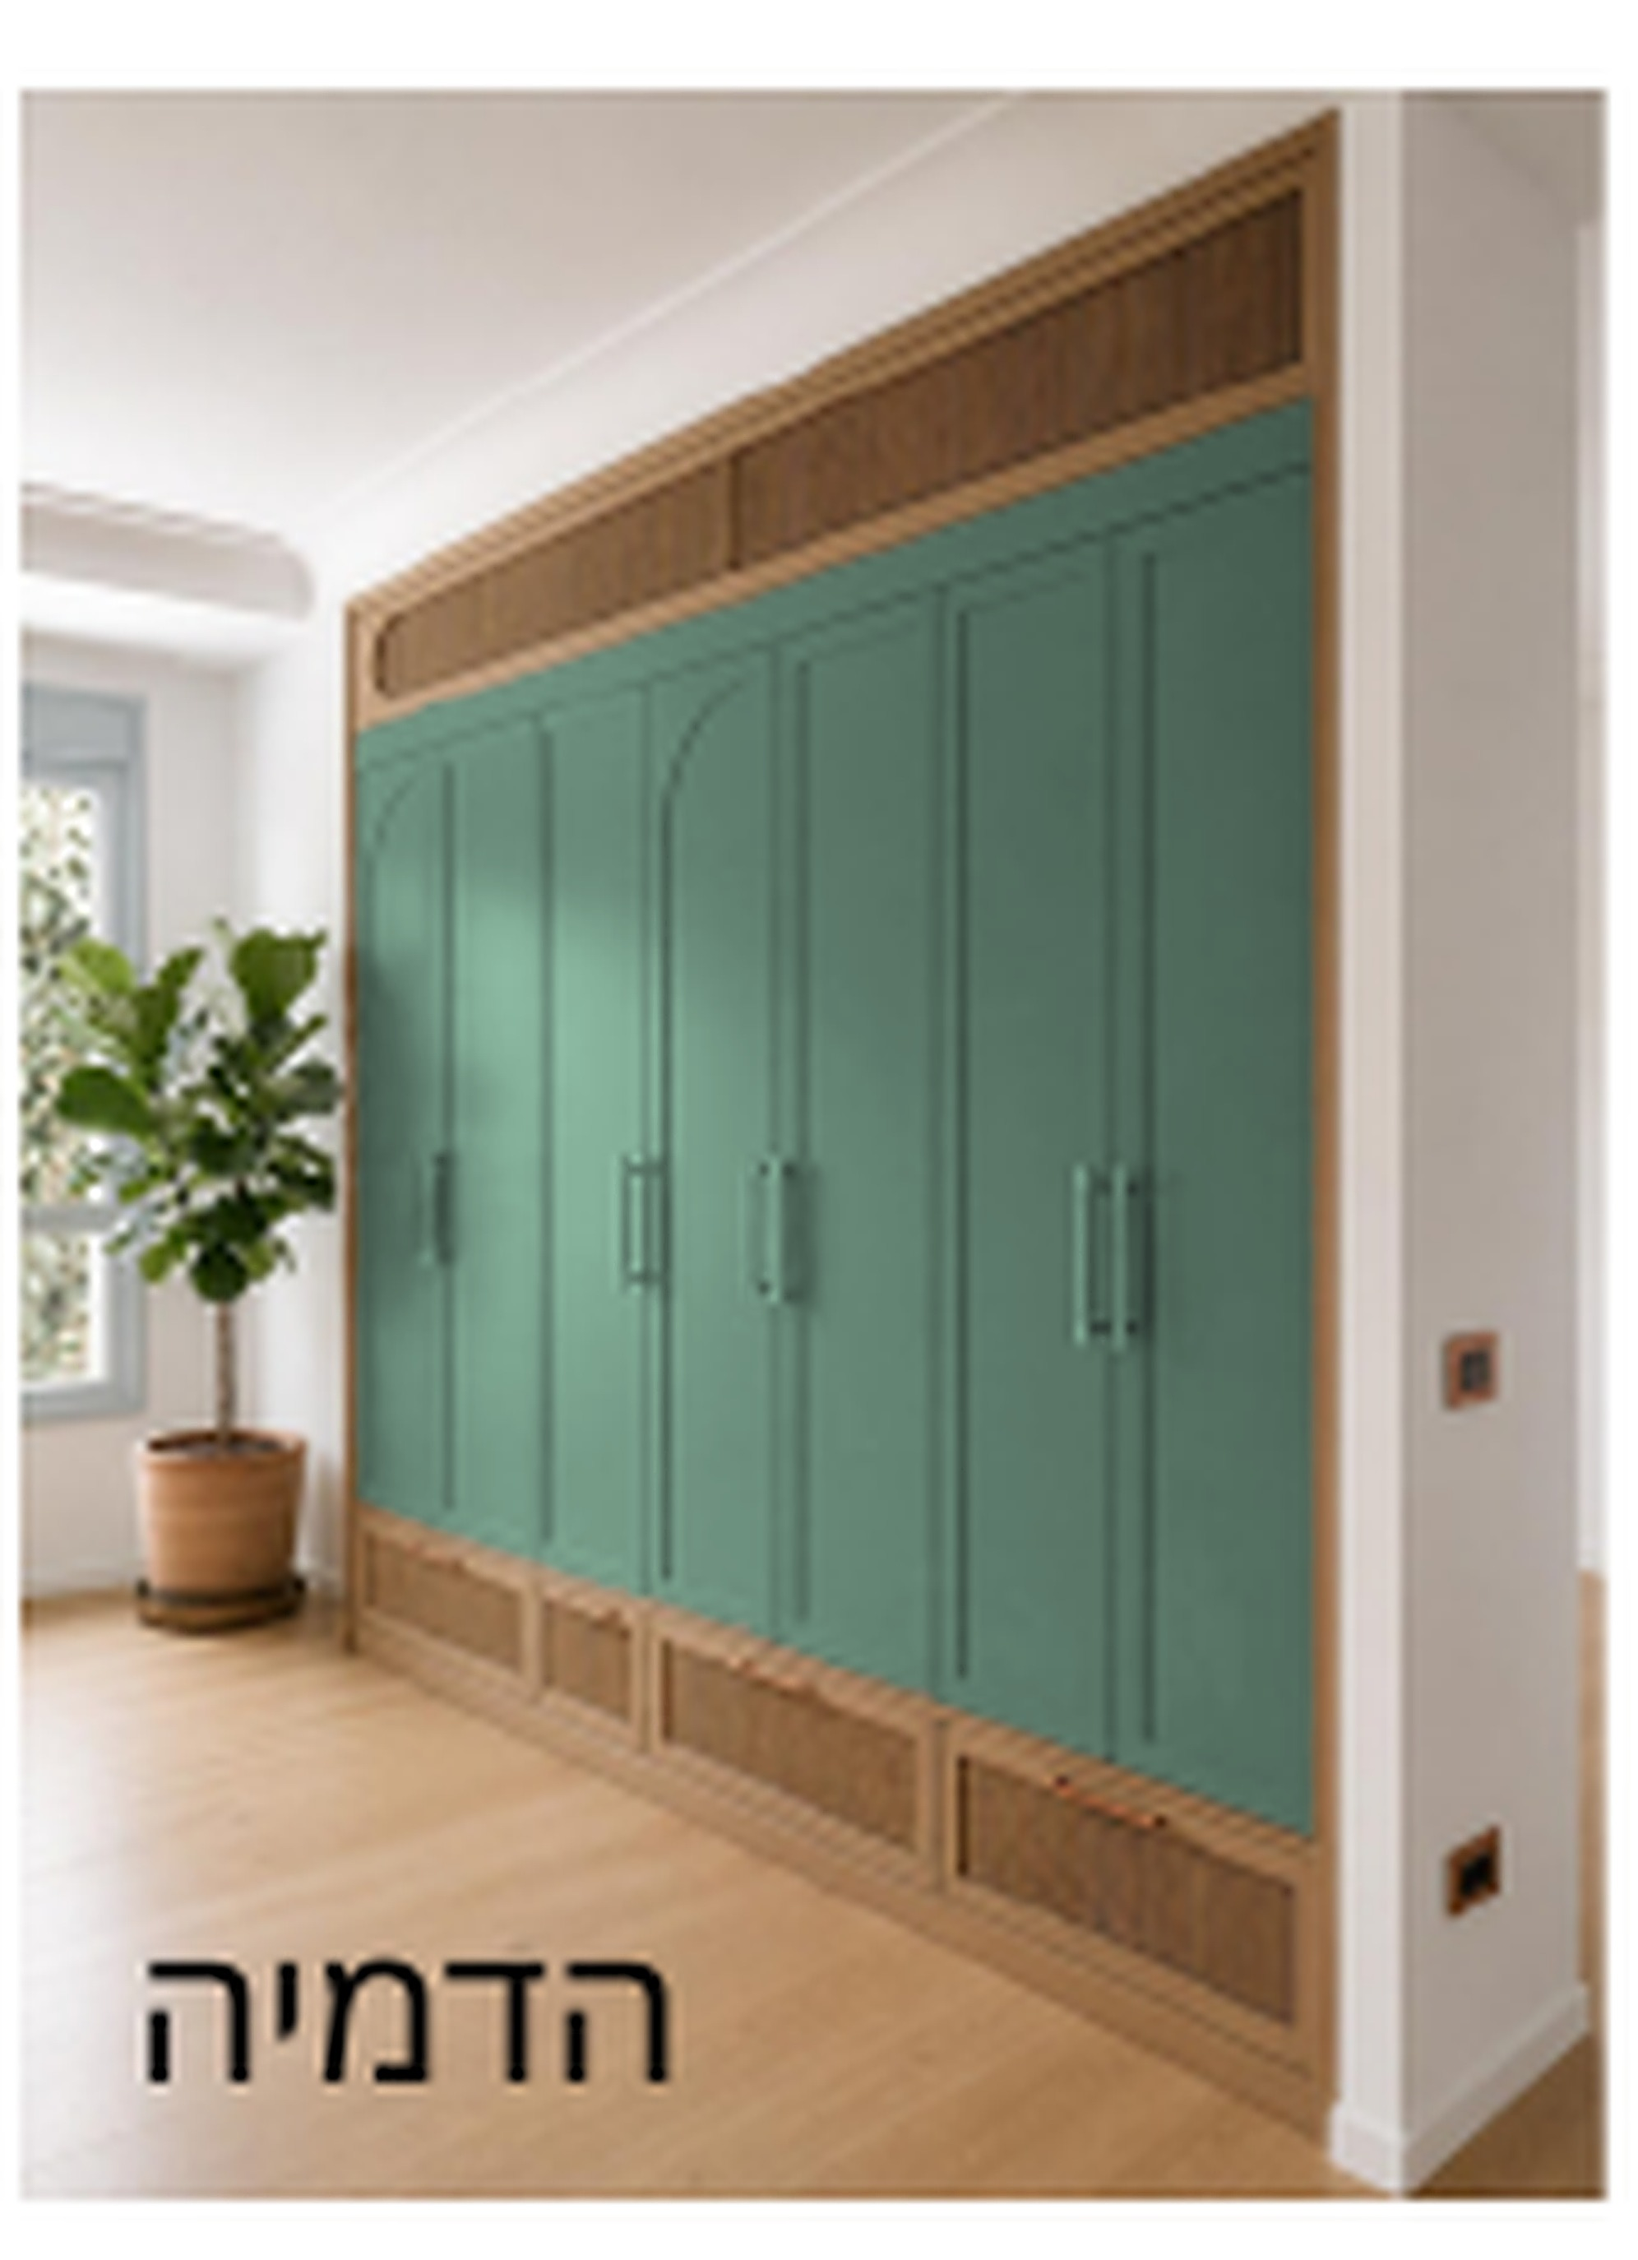
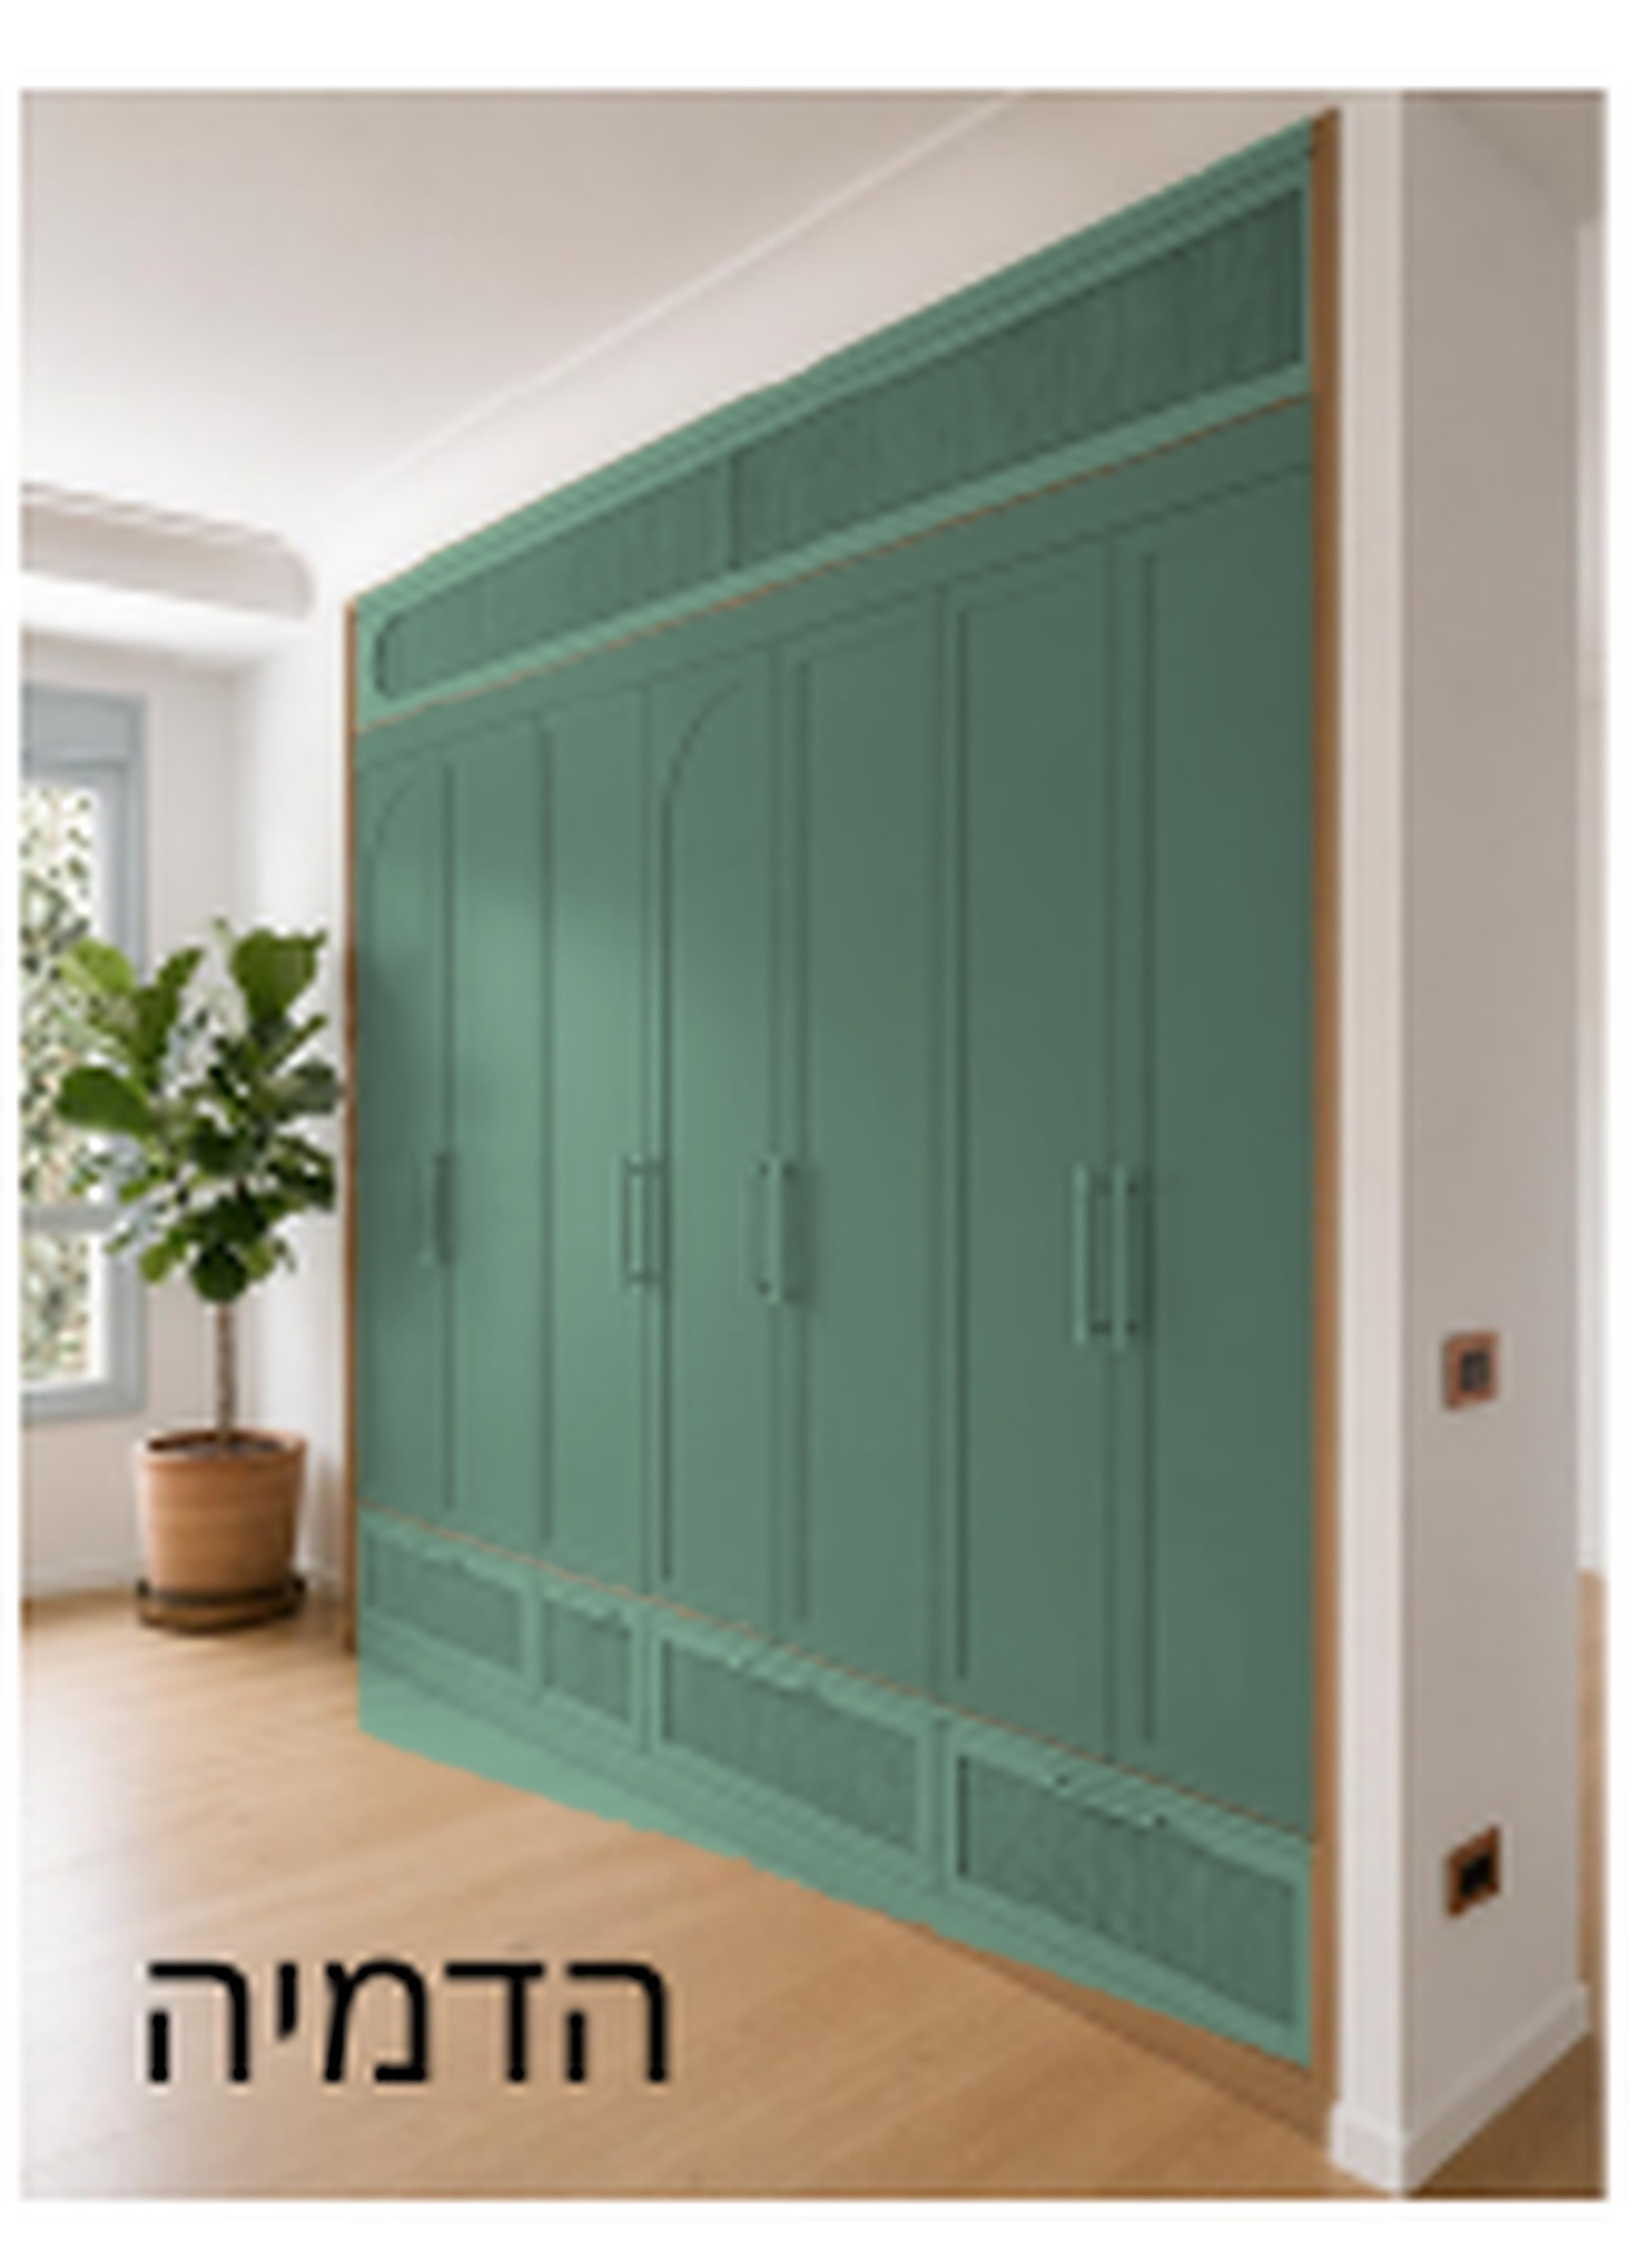
entrance-cabinet: professional redesign (scroll reveal, per-card color tint, glass tag badge, photo hover zoom); recolor fluted top/bottom bands to match door color; center color mapping on exact target hex for better accuracy

Changed region(s): [[0.2179, 0.6496, 0.8092, 0.9279], [0.2179, 0.0309, 0.8092, 0.3402], [0.2801, 0.4021, 0.3735, 0.4949]]

diff --git a/entrance-cabinet/index.html b/entrance-cabinet/index.html
@@ -26,15 +26,25 @@
   :root[data-theme="dark"]{ --bg:#211c16; --paper:#2a231b; --ink:#f0e9da; --ink-soft:#c2b5a0; --line:#3d3427; --brass:#d6a75e; --brass-d:#e4b563; --brass-soft:#372c1e; }
 
   *{box-sizing:border-box}
+  html{scroll-behavior:smooth}
   body{background:var(--bg); color:var(--ink); font-family:-apple-system,BlinkMacSystemFont,"Segoe UI",Arial,sans-serif; margin:0}
   .wrap{max-width:960px; margin:0 auto; padding:40px 22px 70px}
+  @keyframes fadeSlideUp{ from{opacity:0; transform:translateY(12px)} to{opacity:1; transform:translateY(0)} }
+  .backlink, .kicker, h1, .sub, .disclaimer{ animation:fadeSlideUp .7s cubic-bezier(.2,.7,.3,1) both }
+  .kicker{animation-delay:.04s}
+  h1{animation-delay:.1s}
+  .sub{animation-delay:.17s}
+  .disclaimer{animation-delay:.24s}
   .kicker{font-size:11.5px; font-weight:700; letter-spacing:.14em; text-transform:uppercase; color:var(--brass-d); display:flex; align-items:center; gap:9px}
   .kicker::before{content:""; width:22px; height:2px; border-radius:2px; background:var(--brass)}
-  .backlink{display:inline-block; font-size:13px; font-weight:600; color:var(--ink-soft); text-decoration:none; margin-bottom:14px}
+  .backlink{display:inline-block; font-size:13px; font-weight:600; color:var(--ink-soft); text-decoration:none; margin-bottom:14px; transition:color .2s ease}
   .backlink:hover{color:var(--brass-d)}
   h1{font-size:1.9rem; font-weight:800; margin:8px 0 6px; text-wrap:balance}
   .sub{color:var(--ink-soft); max-width:660px; line-height:1.55; margin:0 0 8px}
   .disclaimer{font-size:.8rem; color:var(--ink-soft); background:var(--brass-soft); border-radius:10px; padding:9px 14px; display:inline-block; margin:10px 0 28px}
+
+  .reveal{opacity:0; transform:translateY(22px); transition:opacity .65s cubic-bezier(.2,.7,.3,1), transform .65s cubic-bezier(.2,.7,.3,1)}
+  .reveal.visible{opacity:1; transform:translateY(0)}
 
   .grid{display:grid; grid-template-columns:1fr 1fr; gap:20px}
   @media (max-width:680px){.grid{grid-template-columns:1fr}}
@@ -47,19 +57,28 @@
   @media (prefers-color-scheme: dark){ :root:not([data-theme="light"]) .lessLikelyBadge{color:#e8cf8f; background:#453a24; border-color:#5c4d2c} }
   :root[data-theme="dark"] .lessLikelyBadge{color:#e8cf8f; background:#453a24; border-color:#5c4d2c}
   .mockbtn svg{max-width:100%; height:auto}
-  .card{background:var(--paper); border:1px solid var(--line); border-radius:20px; overflow:hidden; box-shadow:0 2px 14px rgba(0,0,0,.06); display:flex; flex-direction:column}
-  .tag{font-size:11px; font-weight:800; letter-spacing:.05em; padding:6px 13px; display:inline-block; margin:15px 0 0 15px; border-radius:99px; align-self:start}
+  .card{
+    background:
+      linear-gradient(175deg, color-mix(in srgb, var(--tint) 16%, var(--paper)) 0%, var(--paper) 62%),
+      var(--paper);
+    border:1px solid var(--line); border-radius:20px; overflow:hidden;
+    box-shadow:0 2px 14px rgba(0,0,0,.06); display:flex; flex-direction:column;
+    transition:transform .4s cubic-bezier(.2,.8,.2,1), box-shadow .4s cubic-bezier(.2,.8,.2,1);
+  }
+  .card:hover{transform:translateY(-6px); box-shadow:0 18px 36px rgba(0,0,0,.14), 0 2px 8px color-mix(in srgb, var(--tint) 30%, transparent)}
+  .tag{position:absolute; top:10px; right:10px; z-index:2; font-size:11px; font-weight:800; letter-spacing:.05em; padding:6px 13px; border-radius:99px; backdrop-filter:blur(8px); -webkit-backdrop-filter:blur(8px); box-shadow:0 2px 8px rgba(0,0,0,.18)}
   .mockbtn{background:none; border:none; padding:14px 16px 6px; cursor:zoom-in; display:flex; justify-content:center; width:100%}
-  .mockbtn:hover .realImg{filter:brightness(1.03)}
+  .mockbtn:hover .realImg{filter:brightness(1.04); transform:scale(1.045)}
   .mockWrap{position:relative; width:100%; border-radius:14px; overflow:hidden; box-shadow:0 1px 3px rgba(0,0,0,.15)}
-  .realImg{width:100%; display:block}
+  .realImg{width:100%; display:block; transition:transform .5s cubic-bezier(.2,.8,.2,1), filter .5s ease}
   .svgThumb{position:absolute; left:8px; bottom:8px; width:74px; background:rgba(255,255,255,.88); border-radius:8px; padding:5px; box-shadow:0 1px 6px rgba(0,0,0,.2)}
   .svgThumb svg{width:100%; height:auto; display:block}
   .zoomhint{font-size:10.5px; color:var(--ink-soft); text-align:center; margin-top:-2px}
   .body{padding:8px 20px 22px}
   .name{font-size:1.15rem; font-weight:800; margin:2px 0 2px}
   .code{font-family:var(--mono); direction:ltr; unicode-bidi:isolate; color:var(--ink-soft); font-size:.8rem; margin-bottom:10px}
-  .swatchbar{width:100%; height:48px; border-radius:10px; margin:4px 0 12px; box-shadow:inset 0 0 0 1px rgba(0,0,0,.14); display:flex; align-items:center; justify-content:center; font-family:var(--mono); direction:ltr; unicode-bidi:isolate; font-weight:800; font-size:1rem; letter-spacing:.02em}
+  .swatchbar{position:relative; overflow:hidden; width:100%; height:48px; border-radius:10px; margin:4px 0 12px; box-shadow:inset 0 0 0 1px rgba(0,0,0,.14); display:flex; align-items:center; justify-content:center; font-family:var(--mono); direction:ltr; unicode-bidi:isolate; font-weight:800; font-size:1rem; letter-spacing:.02em}
+  .swatchbar::after{content:""; position:absolute; inset:0; background:linear-gradient(135deg, rgba(255,255,255,.35), transparent 55%); mix-blend-mode:overlay; pointer-events:none}
   .rgb{font-family:var(--mono); direction:ltr; unicode-bidi:isolate; font-weight:600; font-size:.78rem; color:var(--ink-soft); display:block; margin:0 0 12px}
   .why{font-size:.86rem; line-height:1.5; color:var(--ink)}
   .why b{color:var(--brass-d)}
@@ -282,11 +301,11 @@ function cabinetSVG(hex, size){
 
 function cardHTML(c,i){
   return `
-    <div class="card">
-      <div class="tag" style="background:${c.hex}; color:${c.lrv>35?'#3b4a3a':'#fff'}">${c.tagLabel}</div>
+    <div class="card reveal" style="--tint:${c.hex}">
       <button class="mockbtn" onclick="openZoom(${i})">
         <div class="mockWrap">
           <img class="realImg" src="renders/${c.render}.jpg" alt="הדמיה של ${c.name} על ארון הכניסה" loading="lazy">
+          <div class="tag" style="background:${c.hex}E6; color:${c.lrv>35?'#3b4a3a':'#fff'}">${c.tagLabel}</div>
           <div class="svgThumb" title="איור סכמטי לפי תוכנית הנגרות">${cabinetSVG(c.hex,90)}</div>
         </div>
       </button>
@@ -307,7 +326,7 @@ function render(){
     const members = COLORS.map((c,i)=>({c,i})).filter(x=>x.c.family===fam.key);
     if(!members.length) return '';
     return `
-      <div class="famHeader${fam.lessLikely?' lessLikely':''}">
+      <div class="famHeader reveal${fam.lessLikely?' lessLikely':''}">
         <div class="famTitle">${fam.label}${fam.lessLikely?' <span class="lessLikelyBadge">פחות סביר שנבחר — אך שווה להראות לנופר</span>':''}</div>
         <div class="famNote">${fam.note}</div>
       </div>
@@ -315,8 +334,26 @@ function render(){
     `;
   }).join('');
   document.getElementById('grid').outerHTML = `<div id="grid">${html}</div>`;
+  initReveal();
 }
 render();
+
+function initReveal(){
+  const els = document.querySelectorAll('.reveal:not(.visible)');
+  if(!('IntersectionObserver' in window)){ els.forEach(el=>el.classList.add('visible')); return; }
+  const io = new IntersectionObserver((entries)=>{
+    entries.forEach(entry=>{
+      if(entry.isIntersecting){
+        entry.target.classList.add('visible');
+        io.unobserve(entry.target);
+      }
+    });
+  }, {threshold:.12, rootMargin:'0px 0px -40px 0px'});
+  els.forEach((el,i)=>{
+    el.style.transitionDelay = (Math.min(i%2,1)*90) + 'ms';
+    io.observe(el);
+  });
+}
 
 function openZoom(i){
   const c = COLORS[i];
